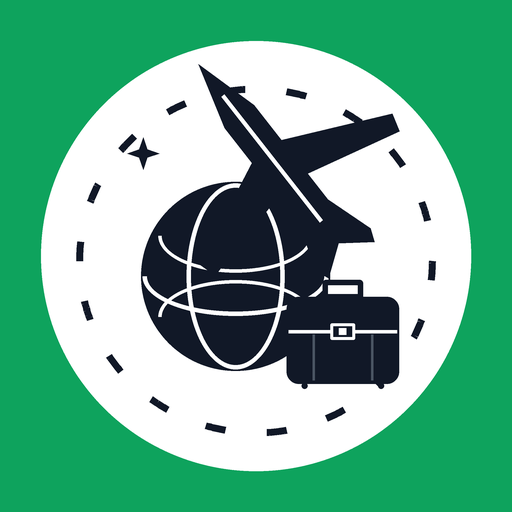
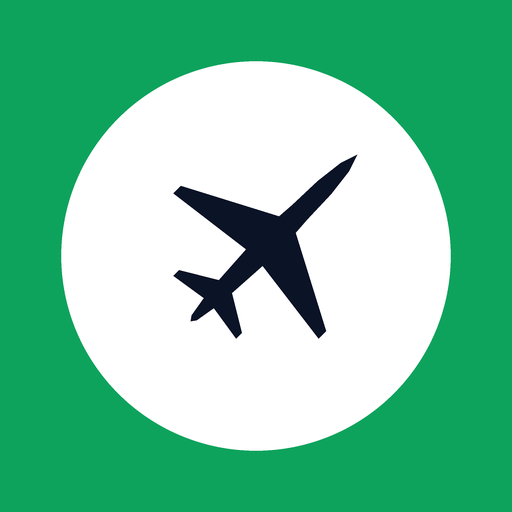
Add files via upload

Changed region(s): [[0.0625, 0.0625, 0.9375, 0.9375], [0.2188, 0.25, 0.3125, 0.3438]]

diff --git a/js/icons.js b/js/icons.js
@@ -151,7 +151,7 @@ export function renderIcon(name, options = {}) {
 /**
  * Render the Official TravelOne Master Logo SVG
  * Features edge-to-edge solid emerald green background (#0ea35d), centered white circle container,
- * and modern black travel silhouette (soaring jet, globe coordinates, flight orbit, and luggage).
+ * and a sober, minimalist, elegant black travel jet silhouette.
  * Fully compatible with iOS Dark Mode (opaque solid fill, no transparent margins).
  * 
  * @param {number} [size=42] - Pixel dimensions (width and height)
@@ -166,53 +166,12 @@ export function renderAppLogoSVG(size = 42, className = '') {
          width="${size}" 
          height="${size}" 
          style="display: inline-block; vertical-align: middle; border-radius: 12px; overflow: hidden; box-shadow: 0 4px 14px rgba(14, 163, 93, 0.35);">
-      <defs>
-        <clipPath id="logoClip_${size}">
-          <circle cx="256" cy="256" r="205" />
-        </clipPath>
-      </defs>
       <!-- Solid Green Edge-to-Edge Background -->
       <rect width="512" height="512" fill="#0ea35d" />
       <!-- Center White Circle -->
-      <circle cx="256" cy="256" r="205" fill="#ffffff" />
-      <!-- Vector Travel Silhouette Group -->
-      <g clip-path="url(#logoClip_${size})">
-        <!-- Dashed Orbital Flight Path -->
-        <path d="M 120 310 C 90 220, 160 110, 290 95 C 380 85, 425 150, 420 220 C 415 290, 340 395, 230 405 C 150 412, 105 350, 115 285" 
-              fill="none" stroke="#111827" stroke-width="9" stroke-dasharray="14 12" stroke-linecap="round" />
-        <!-- Stylized Globe -->
-        <circle cx="236" cy="268" r="102" fill="#111827" />
-        <!-- Globe Grid Coordinates -->
-        <path d="M 236 166 C 196 205, 196 331, 236 370" fill="none" stroke="#ffffff" stroke-width="5.5" stroke-linecap="round" />
-        <path d="M 236 166 C 276 205, 276 331, 236 370" fill="none" stroke="#ffffff" stroke-width="5.5" stroke-linecap="round" />
-        <path d="M 134 268 C 170 286, 302 286, 338 268" fill="none" stroke="#ffffff" stroke-width="5" stroke-linecap="round" />
-        <path d="M 158 215 C 190 230, 282 230, 314 215" fill="none" stroke="#ffffff" stroke-width="4.5" stroke-linecap="round" />
-        <path d="M 158 321 C 190 306, 282 306, 314 321" fill="none" stroke="#ffffff" stroke-width="4.5" stroke-linecap="round" />
-        <!-- Soaring Jet Airplane -->
-        <g transform="translate(290, 138) rotate(42)">
-          <path d="M 0 -52 C 5 -42, 7 -20, 7 24 L 7 48 L 2 52 L -2 52 L -7 48 L -7 24 C -7 -20, -5 -42, 0 -52 Z" fill="#111827" />
-          <path d="M 0 -8 L 52 18 L 50 28 L 7 15 L -7 15 L -50 28 L -52 18 Z" fill="#111827" />
-          <rect x="18" y="10" width="6" height="15" rx="3" fill="#111827" stroke="#ffffff" stroke-width="1.5" />
-          <rect x="-24" y="10" width="6" height="15" rx="3" fill="#111827" stroke="#ffffff" stroke-width="1.5" />
-          <path d="M 0 38 L 24 50 L 22 56 L 0 50 L -22 56 L -24 50 Z" fill="#111827" />
-          <line x1="0" y1="-28" x2="0" y2="40" stroke="#ffffff" stroke-width="2.5" stroke-linecap="round" />
-        </g>
-        <!-- Modern Executive Luggage -->
-        <g transform="translate(305, 298)">
-          <path d="M 38 0 L 38 -14 C 38 -20, 74 -20, 74 -14 L 74 0" fill="none" stroke="#111827" stroke-width="7.5" stroke-linecap="round" />
-          <rect x="0" y="0" width="112" height="88" rx="14" fill="#111827" />
-          <path d="M 0 12 C 0 5, 5 0, 12 0 L 100 0 C 107 0, 112 5, 112 12 L 112 36 C 112 42, 107 46, 100 46 L 12 46 C 5 46, 0 42, 0 36 Z" fill="#1f2937" />
-          <line x1="4" y1="40" x2="108" y2="40" stroke="#ffffff" stroke-width="3.5" stroke-linecap="round" />
-          <rect x="42" y="30" width="28" height="20" rx="5" fill="#111827" stroke="#ffffff" stroke-width="3" />
-          <rect x="51" y="36" width="10" height="8" rx="2" fill="#ffffff" />
-          <circle cx="20" cy="90" r="5" fill="#111827" />
-          <circle cx="92" cy="90" r="5" fill="#111827" />
-        </g>
-        <!-- Compass Sparkle -->
-        <g transform="translate(136, 140) scale(0.9)">
-          <path d="M 0 -18 Q 0 0, 18 0 Q 0 0, 0 18 Q 0 0, -18 0 Q 0 0, 0 -18 Z" fill="#111827" />
-        </g>
-      </g>
+      <circle cx="256" cy="256" r="195" fill="#ffffff" />
+      <!-- Minimalist & Elegant Jet Silhouette -->
+      <polygon points="357.47,154.53 349.21,171.04 331.05,194.15 307.11,219.74 295.56,232.95 326.1,331.18 318.67,338.61 262.54,265.97 232.0,293.21 241.9,332.83 236.13,338.61 213.84,308.07 196.5,320.45 190.73,321.27 191.55,315.5 203.93,298.16 173.39,275.87 179.17,270.1 218.79,280.0 246.03,249.46 173.39,193.33 180.82,185.9 279.05,216.44 292.26,204.89 317.85,180.95 340.96,162.79" fill="#0b1326" />
     </svg>
   `.trim();
 }

diff --git a/index.html b/index.html
@@ -6,6 +6,7 @@
   <meta name="theme-color" content="#0ea35d">
   <meta name="theme-color" media="(prefers-color-scheme: light)" content="#0ea35d">
   <meta name="theme-color" media="(prefers-color-scheme: dark)" content="#0ea35d">
+  <meta name="msapplication-TileColor" content="#0ea35d">
   <meta name="description" content="TravelOne - Tu organizador personal de viajes offline y PWA local. Itinerario, reservas, gastos, presupuesto y más.">
   
   <title>TravelOne — Organizador Personal de Viajes</title>
@@ -14,19 +15,26 @@
   <meta name="apple-mobile-web-app-capable" content="yes">
   <meta name="apple-mobile-web-app-status-bar-style" content="default">
   <meta name="apple-mobile-web-app-title" content="TravelOne">
-  <link rel="apple-touch-icon" href="./apple-touch-icon.png">
-  <link rel="apple-touch-icon" sizes="180x180" href="./apple-touch-icon-180x180.png">
-  <link rel="apple-touch-icon" sizes="192x192" href="./icon-192.png">
-  <link rel="apple-touch-icon" sizes="512x512" href="./icon-512.png">
+  
+  <!-- Apple Touch Icons (Precomposed to disable iOS OS filters & Normal with cache busting) -->
+  <link rel="apple-touch-icon-precomposed" href="./apple-touch-icon.png?v=4">
+  <link rel="apple-touch-icon-precomposed" sizes="180x180" href="./apple-touch-icon-180x180.png?v=4">
+  <link rel="apple-touch-icon-precomposed" sizes="192x192" href="./icon-192.png?v=4">
+  <link rel="apple-touch-icon-precomposed" sizes="512x512" href="./icon-512.png?v=4">
+
+  <link rel="apple-touch-icon" href="./apple-touch-icon.png?v=4">
+  <link rel="apple-touch-icon" sizes="180x180" href="./apple-touch-icon-180x180.png?v=4">
+  <link rel="apple-touch-icon" sizes="192x192" href="./icon-192.png?v=4">
+  <link rel="apple-touch-icon" sizes="512x512" href="./icon-512.png?v=4">
 
   <!-- Favicon & Web Icons -->
-  <link rel="icon" type="image/png" sizes="64x64" href="./favicon.png">
-  <link rel="icon" type="image/png" sizes="192x192" href="./icon-192.png">
-  <link rel="icon" type="image/png" sizes="512x512" href="./icon-512.png">
-  <link rel="icon" type="image/svg+xml" href="./app-logo.svg">
+  <link rel="icon" type="image/png" sizes="64x64" href="./favicon.png?v=4">
+  <link rel="icon" type="image/png" sizes="192x192" href="./icon-192.png?v=4">
+  <link rel="icon" type="image/png" sizes="512x512" href="./icon-512.png?v=4">
+  <link rel="icon" type="image/svg+xml" href="./app-logo.svg?v=4">
 
   <!-- PWA Manifest -->
-  <link rel="manifest" href="./manifest.json">
+  <link rel="manifest" href="./manifest.json?v=4">
 
   <!-- Stylesheets -->
   <link rel="stylesheet" href="./css/main.css">

diff --git a/js/views/home.js b/js/views/home.js
@@ -179,17 +179,17 @@ export async function renderHomeView(onSelectTrip, currentUser) {
         </div>
       </div>
 
-      <!-- Main Navigation Tabs -->
-      <div style="display: flex; gap: 0.5rem; border-bottom: 1px solid var(--border-color); margin-bottom: 1.5rem; flex-wrap: wrap;">
-        <button class="btn btn-sm ${activeTab === 'active' ? 'btn-primary' : 'btn-secondary'}" id="tab-active" style="border-radius: var(--radius-md) var(--radius-md) 0 0; display: inline-flex; align-items: center; gap: 0.4rem;">
+      <!-- Main Navigation Tabs (Aligned horizontally in a single line) -->
+      <div style="display: flex; align-items: center; gap: 0.5rem; border-bottom: 1px solid var(--border-color); margin-bottom: 1.5rem; flex-wrap: nowrap; overflow-x: auto; -webkit-overflow-scrolling: touch; width: 100%; padding-bottom: 2px;">
+        <button class="btn btn-sm ${activeTab === 'active' ? 'btn-primary' : 'btn-secondary'}" id="tab-active" style="border-radius: var(--radius-md) var(--radius-md) 0 0; display: inline-flex; align-items: center; gap: 0.4rem; flex-shrink: 0; white-space: nowrap;">
           ${renderIcon('plane', { size: 14 })}
           <span>Mis Viajes (${activeTrips.length})</span>
         </button>
-        <button class="btn btn-sm ${activeTab === 'history' ? 'btn-primary' : 'btn-secondary'}" id="tab-history" style="border-radius: var(--radius-md) var(--radius-md) 0 0; display: inline-flex; align-items: center; gap: 0.4rem;">
+        <button class="btn btn-sm ${activeTab === 'history' ? 'btn-primary' : 'btn-secondary'}" id="tab-history" style="border-radius: var(--radius-md) var(--radius-md) 0 0; display: inline-flex; align-items: center; gap: 0.4rem; flex-shrink: 0; white-space: nowrap;">
           ${renderIcon('history', { size: 14 })}
           <span>Historial (${historyTrips.length})</span>
         </button>
-        <button class="btn btn-sm ${activeTab === 'trash' ? 'btn-primary' : 'btn-secondary'}" id="tab-trash" style="border-radius: var(--radius-md) var(--radius-md) 0 0; display: inline-flex; align-items: center; gap: 0.4rem;">
+        <button class="btn btn-sm ${activeTab === 'trash' ? 'btn-primary' : 'btn-secondary'}" id="tab-trash" style="border-radius: var(--radius-md) var(--radius-md) 0 0; display: inline-flex; align-items: center; gap: 0.4rem; flex-shrink: 0; white-space: nowrap;">
           ${renderIcon('trash', { size: 14 })}
           <span>Papelera (${trashTrips.length})</span>
         </button>

diff --git a/sw.js b/sw.js
@@ -5,7 +5,7 @@
  * @module sw
  */
 
-const CACHE_NAME = 'travelone-v5';
+const CACHE_NAME = 'travelone-v7';
 
 /**
  * Essential static assets and application modules cached for full offline operation.
